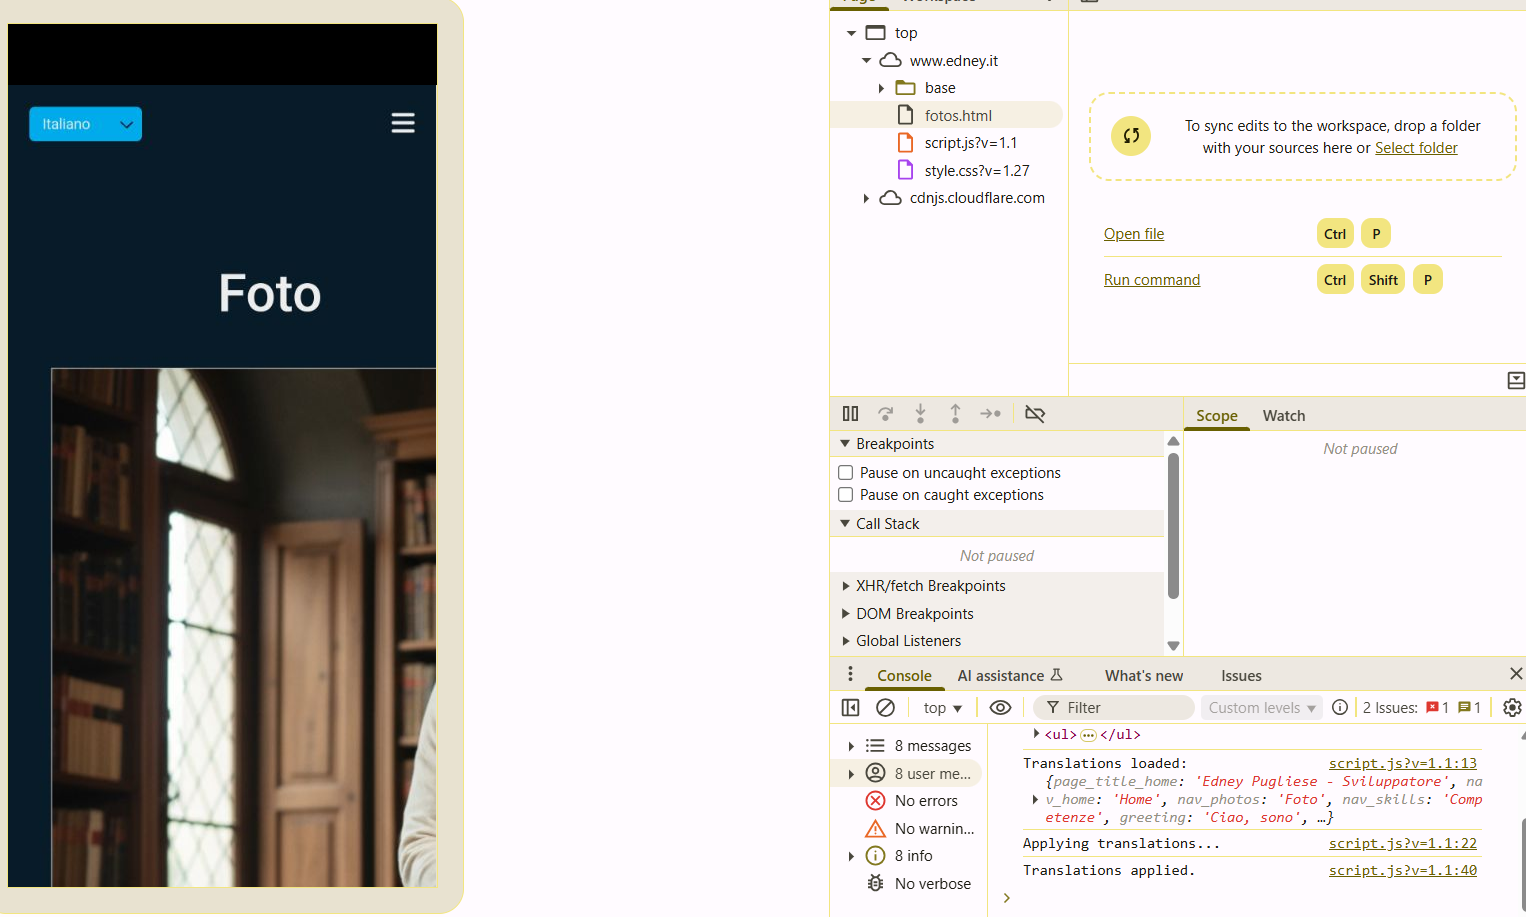
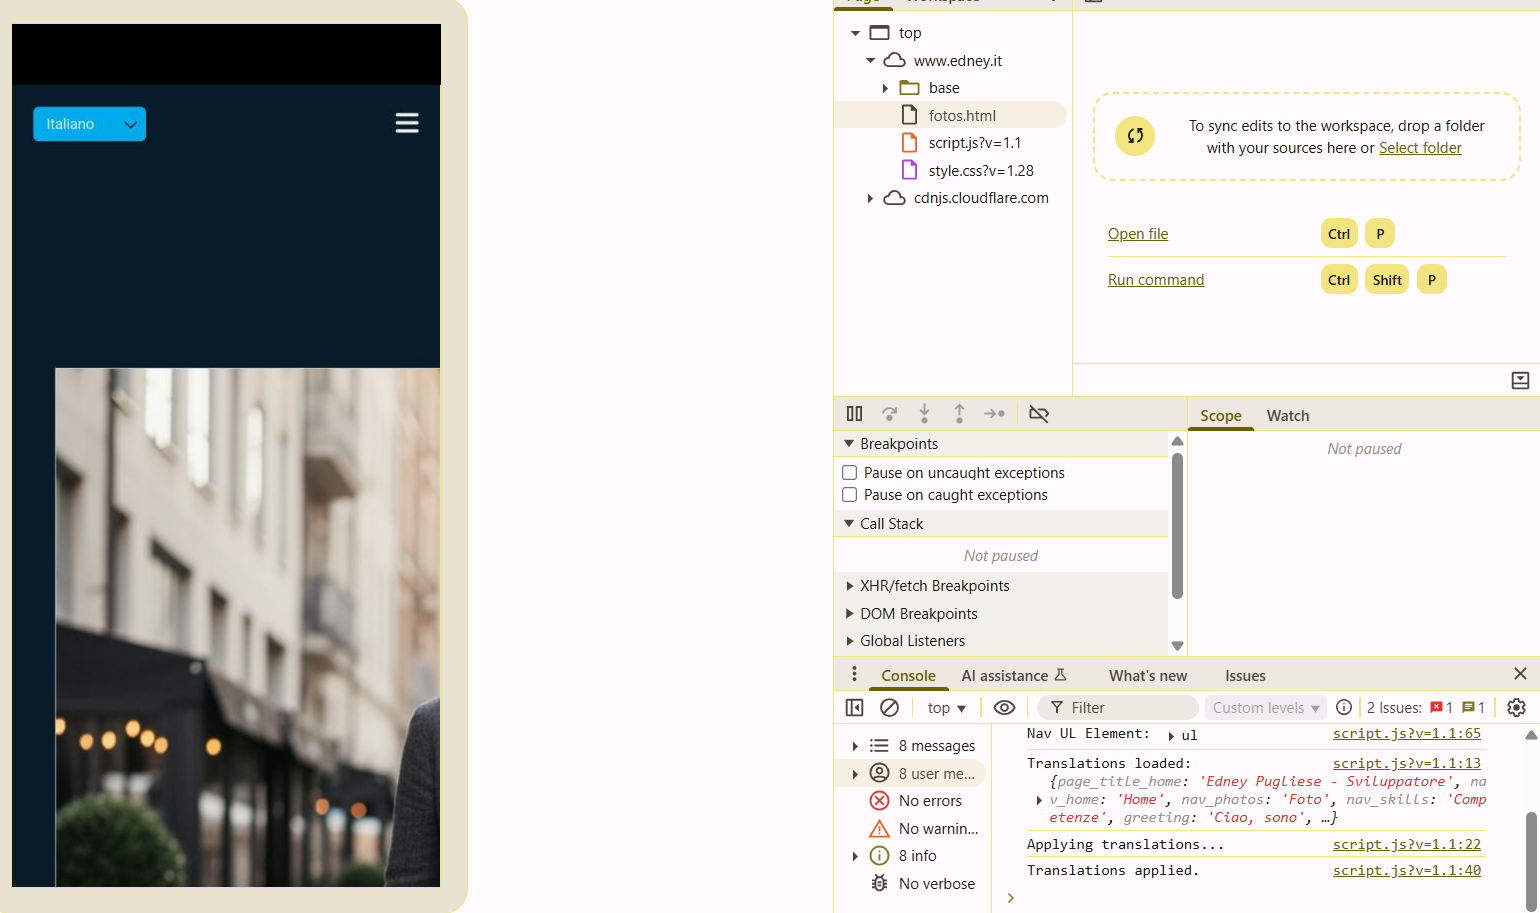
fix: Ajusta o tamanho da imagem do carrossel no celular removendo flex-basis e adicionando width: 100% na media query. Atualiza a versão do CSS.

diff --git a/style.css b/style.css
@@ -255,7 +255,6 @@ nav ul li a:hover, nav ul li a.active {
     flex-shrink: 0;
     display: block;
     height: auto; /* Garante que a altura seja ajustada proporcionalmente */
-    flex-basis: 100%; /* Cada imagem ocupa 100% da largura do slide */
 }
 
 /* Media Queries for Responsiveness */
@@ -461,6 +460,10 @@ nav ul li a:hover, nav ul li a.active {
         margin: 30px auto 0 auto; /* Centraliza o carrossel e adiciona espaço superior */
     }
 
+    .carousel-slide img {
+        width: 100%; /* Garante que a imagem ocupe 100% da largura do container */
+    }
+
     .skill-category ul li strong {
         /* Removido min-width, white-space: nowrap, margin-right */
         margin-left: 0; /* Alinha o nome da linguagem com o ícone */
@@ -472,3 +475,4 @@ nav ul li a:hover, nav ul li a.active {
         margin-left: 0; /* Alinha a descrição com o nome da linguagem */
     }
 }
+

diff --git a/fotos.html b/fotos.html
@@ -4,7 +4,7 @@
     <meta charset="UTF-8">
     <meta name="viewport" content="width=device-width, initial-scale=1.0">
     <title data-i18n="page_title_photos">Fotos - Edney</title>
-    <link rel="stylesheet" href="style.css?v=1.28">
+    <link rel="stylesheet" href="style.css?v=1.29">
     <link rel="stylesheet" href="https://cdnjs.cloudflare.com/ajax/libs/font-awesome/6.0.0-beta3/css/all.min.css">
 </head>
 <body>
